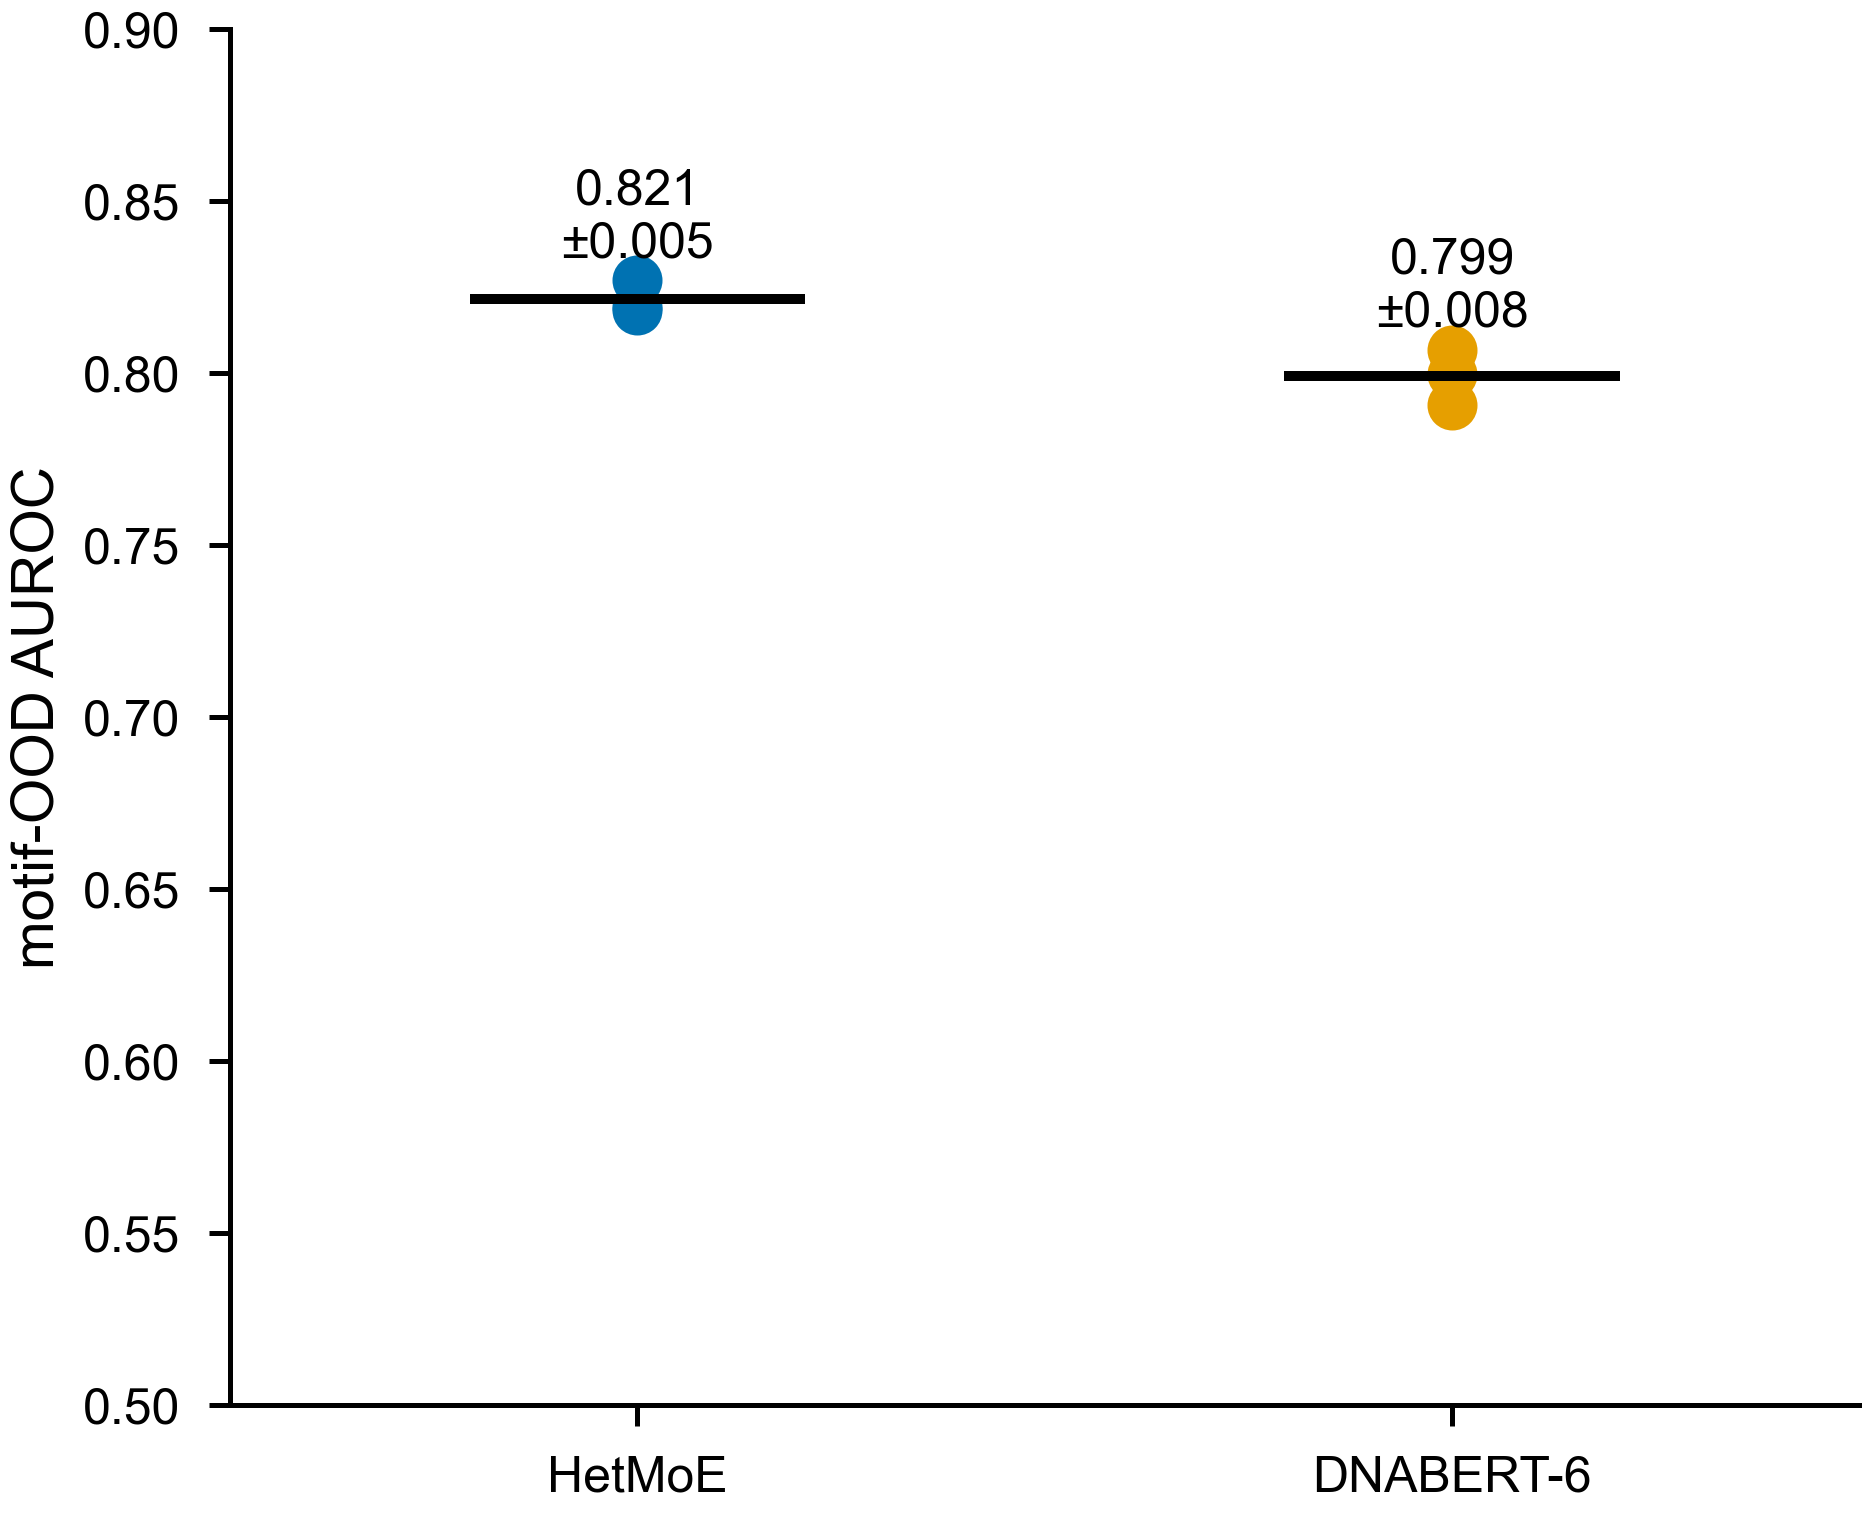
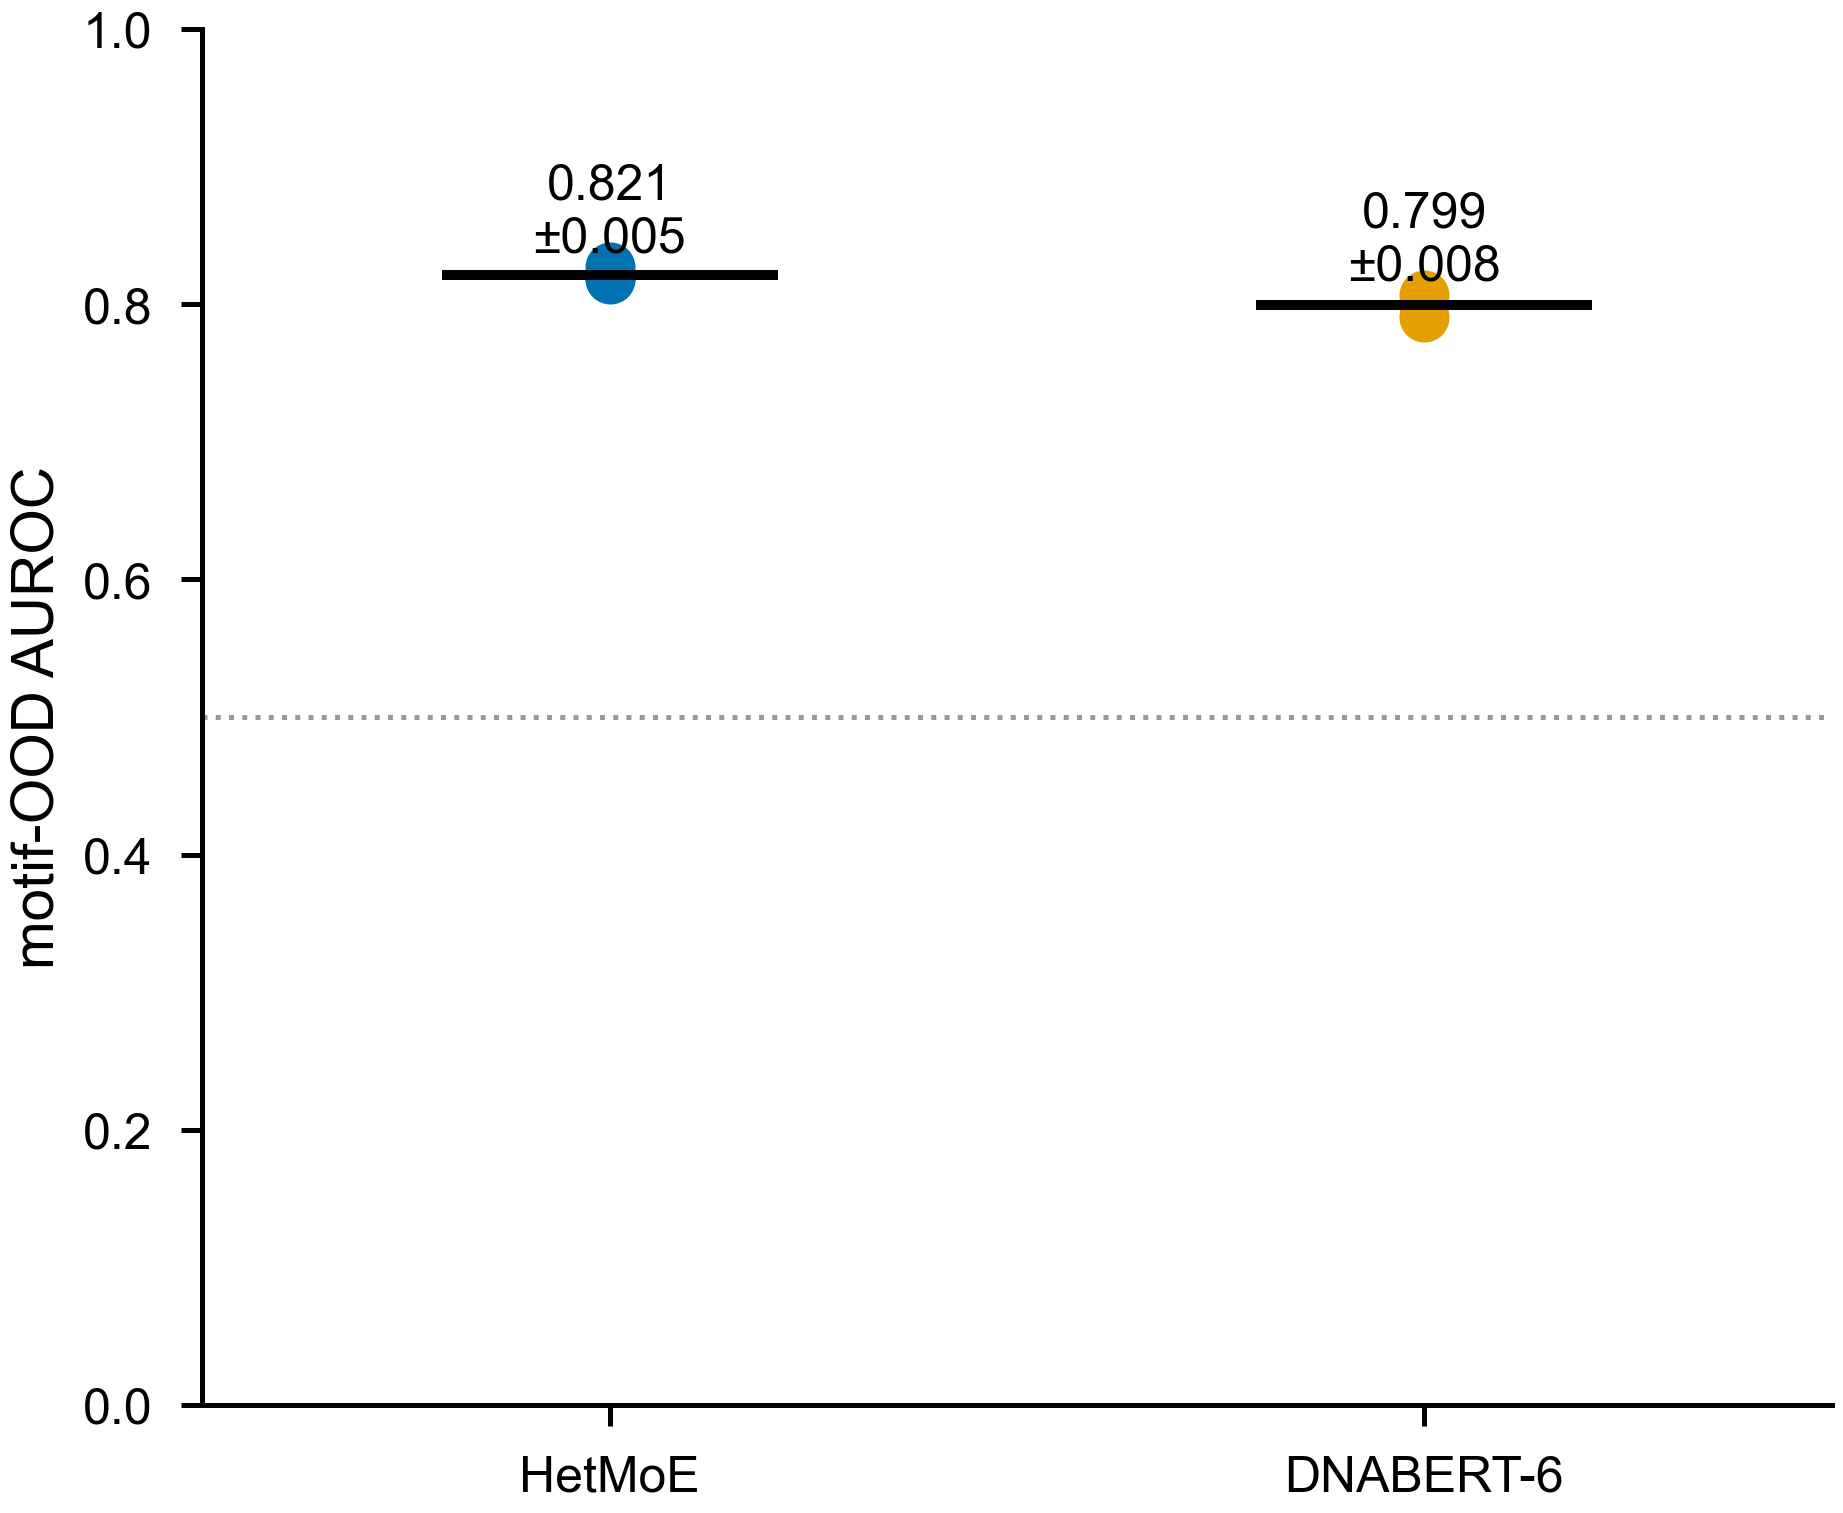
figs: final-review fixes — 0-1 AUROC axes (Fig 3/7), figstyle FIG_DIR, docstring, tight_layout
- fig_3_indist_performance: ylim 0.4->0.0 (full 0-1 AUROC axis per caption)
- fig_7_multiseed: ylim 0.5->0.0, add chance line at 0.5 (match other figs)
- figstyle.py: FIG_DIR default results/figures/nature -> results/figures/paper; update save() docstring
- make_attribution_figures.py: motif_ranges docstring 1-based->0-based; fig_10 tight_layout() before save
- Regenerated fig_3, fig_7, fig_10 with corrected axes / layout

diff --git a/tfbs/figstyle.py b/tfbs/figstyle.py
@@ -31,7 +31,6 @@ MODEL_COLORS = {
     "DNABERT": OKABE_ITO["orange"], "DNABERT-6": OKABE_ITO["orange"], "DNABERT6": OKABE_ITO["orange"],
     "DeepSEA": OKABE_ITO["green"],
     "DanQ": OKABE_ITO["vermillion"],
-    "MoE": OKABE_ITO["sky"], "orig-MoE": OKABE_ITO["sky"], "moe": OKABE_ITO["sky"],
     "static_mean": OKABE_ITO["purple"], "static mean": OKABE_ITO["purple"],
     "best_single": OKABE_ITO["grey"], "best single": OKABE_ITO["grey"],
     "ConvNet": OKABE_ITO["sky"],
@@ -43,7 +42,7 @@ COL1 = 89 * MM
 COL1_5 = 120 * MM
 COL2 = 183 * MM
 
-FIG_DIR = os.path.join("results", "figures", "nature")
+FIG_DIR = os.path.join("results", "figures", "paper")
 
 
 def apply():
@@ -58,7 +57,7 @@ def apply():
         "font.family": "sans-serif",
         "font.sans-serif": ["Arial", "Helvetica", "Helvetica Neue", "DejaVu Sans"],
         "font.size": 7,
-        "axes.titlesize": 8, "axes.labelsize": 7,
+        "axes.titlesize": 7, "axes.labelsize": 7,
         "xtick.labelsize": 6, "ytick.labelsize": 6,
         "legend.fontsize": 6, "legend.frameon": False, "legend.handlelength": 1.4,
         "axes.linewidth": 0.6,
@@ -77,13 +76,19 @@ def color(model):
 
 
 def panel_label(ax, letter, x=-0.20, y=1.04):
-    ax.text(x, y, letter, transform=ax.transAxes, fontsize=9, fontweight="bold",
+    # Nature: panel labels 8-pt bold, upright, lowercase (a, b, c)
+    ax.text(x, y, letter, transform=ax.transAxes, fontsize=8, fontweight="bold",
             va="bottom", ha="right")
 
 
-def save(fig, name):
-    """Write <name>.pdf (vector) and <name>.png (600 dpi) into results/figures/nature/."""
-    os.makedirs(FIG_DIR, exist_ok=True)
-    fig.savefig(os.path.join(FIG_DIR, name + ".pdf"))
-    fig.savefig(os.path.join(FIG_DIR, name + ".png"), dpi=600)
+def save(fig, name, outdir=None):
+    """Write <name>.pdf (vector) and <name>.png (600 dpi).
+
+    Defaults to results/figures/paper/; pass ``outdir`` to redirect to a
+    different output directory.
+    """
+    outdir = outdir or FIG_DIR
+    os.makedirs(outdir, exist_ok=True)
+    fig.savefig(os.path.join(outdir, name + ".pdf"))
+    fig.savefig(os.path.join(outdir, name + ".png"), dpi=600)
     plt.close(fig)

diff --git a/experiments/analysis/make_paper_figures.py b/experiments/analysis/make_paper_figures.py
@@ -49,7 +49,7 @@ def fig_3_indist_performance(d):
             ax.plot(i + dx, r[f"{m}_auc"], "o", color=color(m), ms=3.5, zorder=3,
                     label=PRETTY[m] if i == 0 else None)
     ax.axhline(0.5, ls=":", lw=0.6, color=OKABE_ITO["grey"], zorder=0)
-    ax.set_xticks(x); ax.set_xticklabels(TRAIN_TFS, fontsize=6); ax.set_ylim(0.4, 1.0)
+    ax.set_xticks(x); ax.set_xticklabels(TRAIN_TFS, fontsize=6); ax.set_ylim(0.0, 1.0)
     ax.set_ylabel("AUROC (mean, 95% CI)"); ax.legend(ncol=2, loc="lower right")
     save(fig, "fig_3_indist_performance", outdir=PAPER)
 
@@ -133,8 +133,9 @@ def fig_7_multiseed(seeds=(0, 1, 42)):
         ax.plot([xi - 0.2, xi + 0.2], [v.mean(), v.mean()], color="black", lw=1.2, zorder=4)
         ax.text(xi, v.max() + 0.004, f"{v.mean():.3f}\n±{v.std(ddof=1):.3f}",
                 ha="center", va="bottom", fontsize=6)
+    ax.axhline(0.5, ls=":", lw=0.6, color=OKABE_ITO["grey"], zorder=0)
     ax.set_xticks([0, 1]); ax.set_xticklabels(["HetMoE", "DNABERT-6"])
-    ax.set_ylabel("motif-OOD AUROC"); ax.set_xlim(-0.5, 1.5); ax.set_ylim(0.5, 0.9)
+    ax.set_ylabel("motif-OOD AUROC"); ax.set_xlim(-0.5, 1.5); ax.set_ylim(0.0, 1.0)
     save(fig, "fig_7_multiseed", outdir=PAPER)
 
 

diff --git a/experiments/attribution/make_attribution_figures.py b/experiments/attribution/make_attribution_figures.py
@@ -53,7 +53,7 @@ def core_seq(x0):
 
 
 def motif_ranges(seq):
-    """1-based [min,max] index ranges of GATAA / TTATC occurrences for logo highlighting."""
+    """0-based [min,max] index ranges of GATAA / TTATC occurrences for logo highlighting."""
     rc = MOTIF.translate(str.maketrans("ACGT", "TGCA"))[::-1]
     out = []
     for m in (MOTIF, rc):
@@ -112,6 +112,7 @@ def fig_10_attribution(expert, moe, cdl, rng):
         axes[r][0].set_ylabel(lab, fontsize=6)
     axes[4][0].set_xlabel("nucleotide position", fontsize=7)
     axes[4][1].set_xlabel("nucleotide position", fontsize=7)
+    fig.tight_layout()
     fs.save(fig, "fig_10_attribution", outdir=PAPER)
 
 